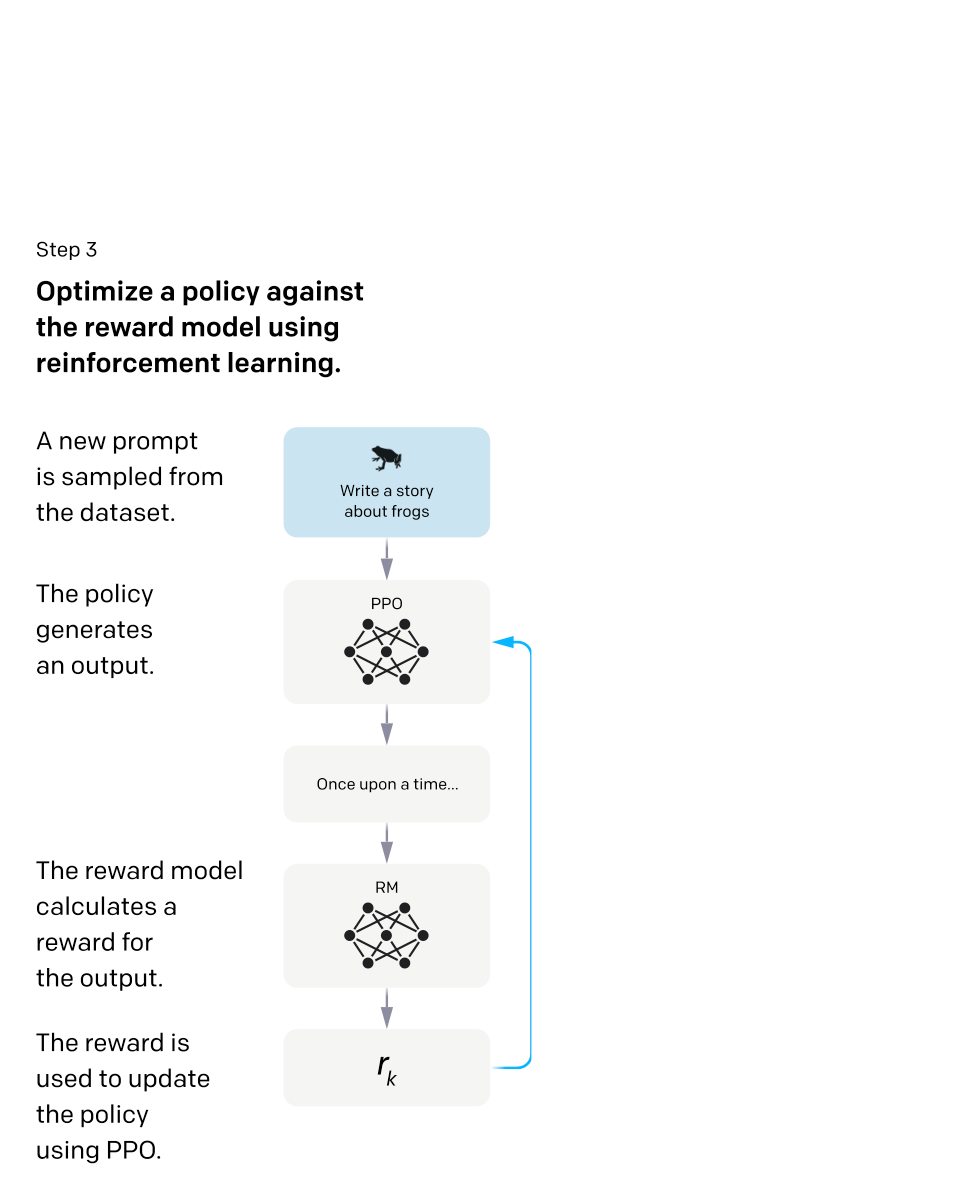
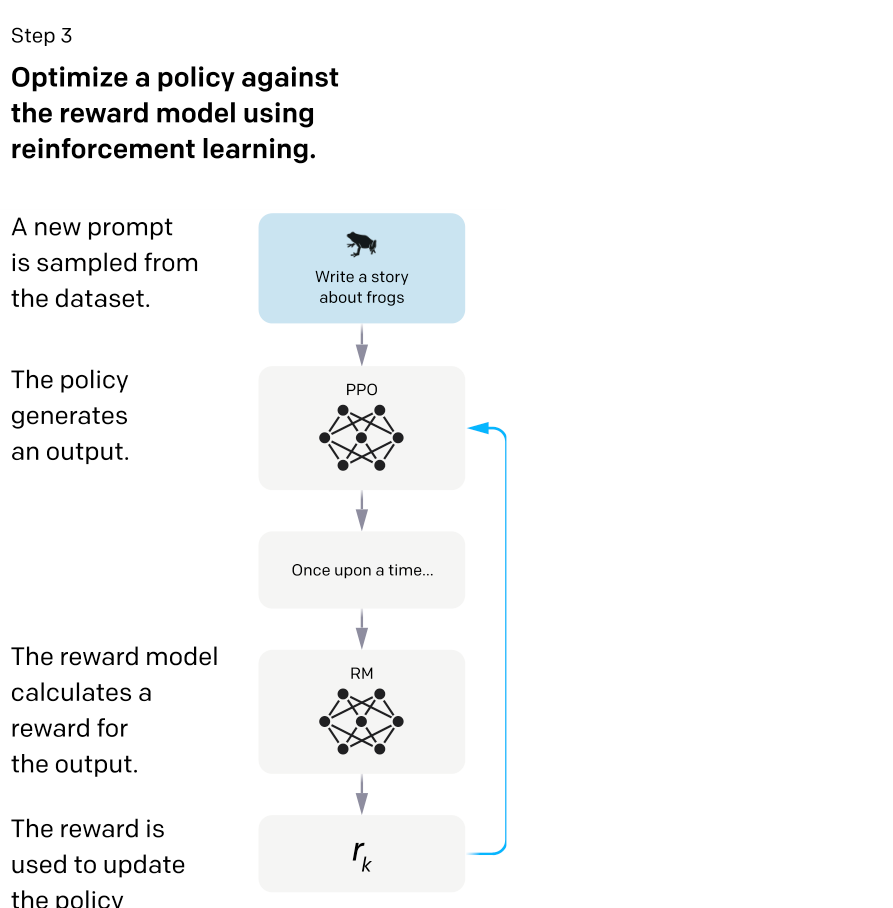
Fix image whitespace and ensure text headings align both columns

diff --git a/safety.tex b/safety.tex
@@ -224,6 +224,8 @@
     \column{0.48\textwidth}
     \vspace{0pt}% force top-alignment
     \centering
+    {\small\bfseries\navy{RLHF Step 3: PPO}}
+    \vspace{0.2em}
     \includegraphics[width=0.82\textwidth]{figures/rlhf_ppo_step3.png}\\[2pt]
     {\tiny\muted{Source: Ouyang et al., 2022}}
   \end{columns}